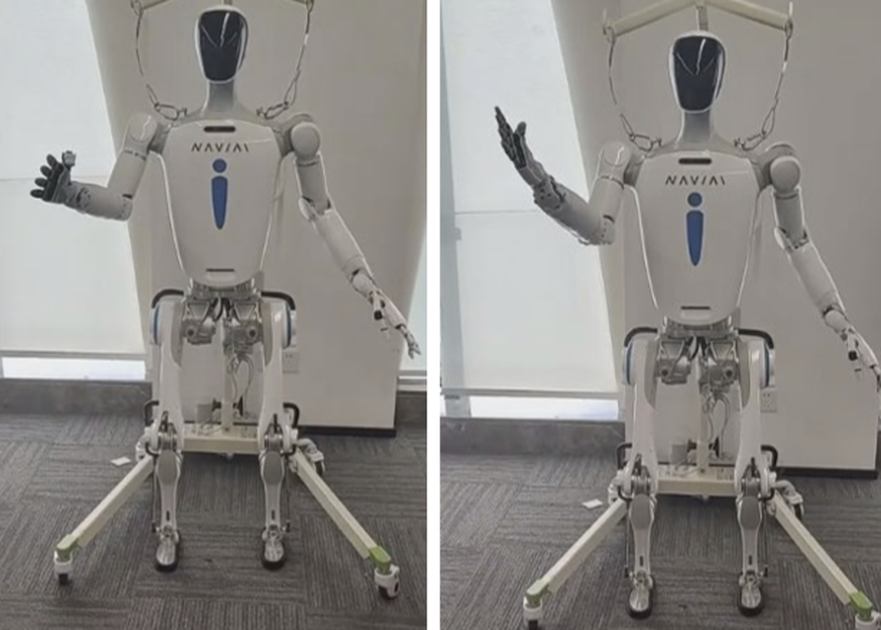
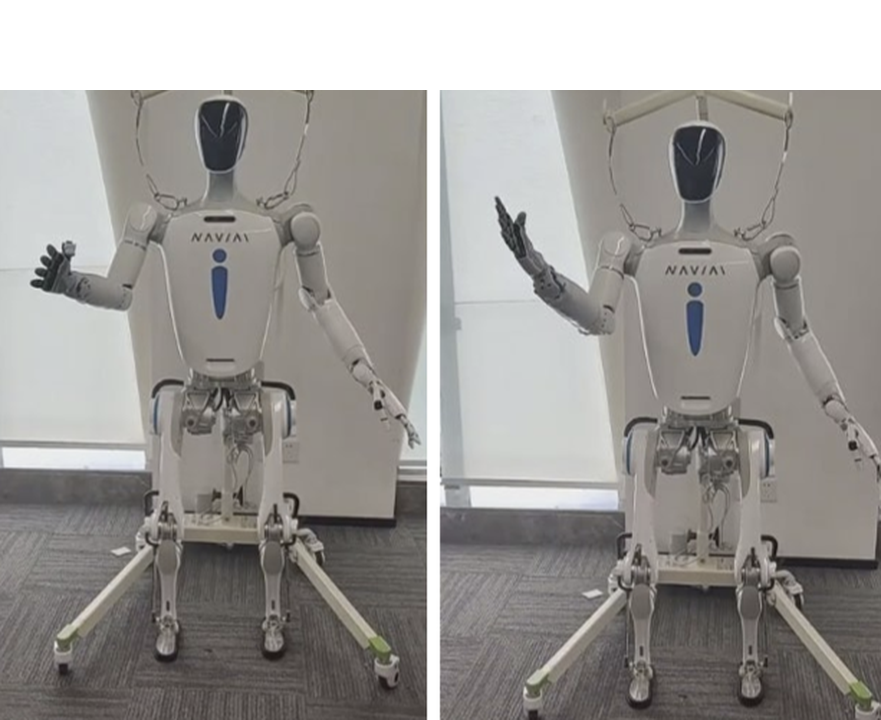
update

diff --git a/index.html b/index.html
@@ -170,7 +170,7 @@
     <tr onmouseout="power_stop()" onmouseover="power_start()">
       <td style="padding:16px;width:20%;vertical-align:middle">
         <div class="one">
-          <img src='images/RCAR2025.png' width="180">
+          <img src='images/RCAR2025.png' width="165">
         </div>
       </td>
       <td style="padding:8px;width:80%;vertical-align:middle">
